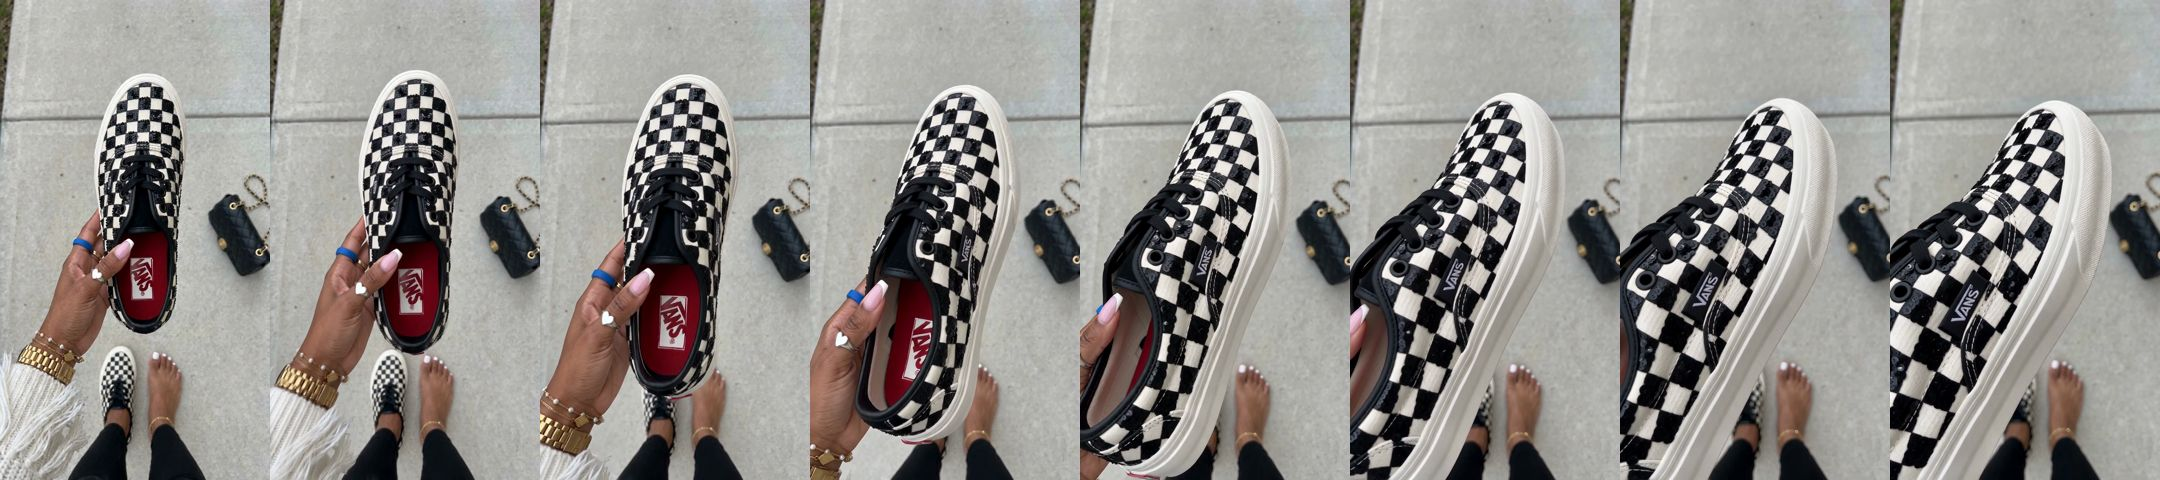
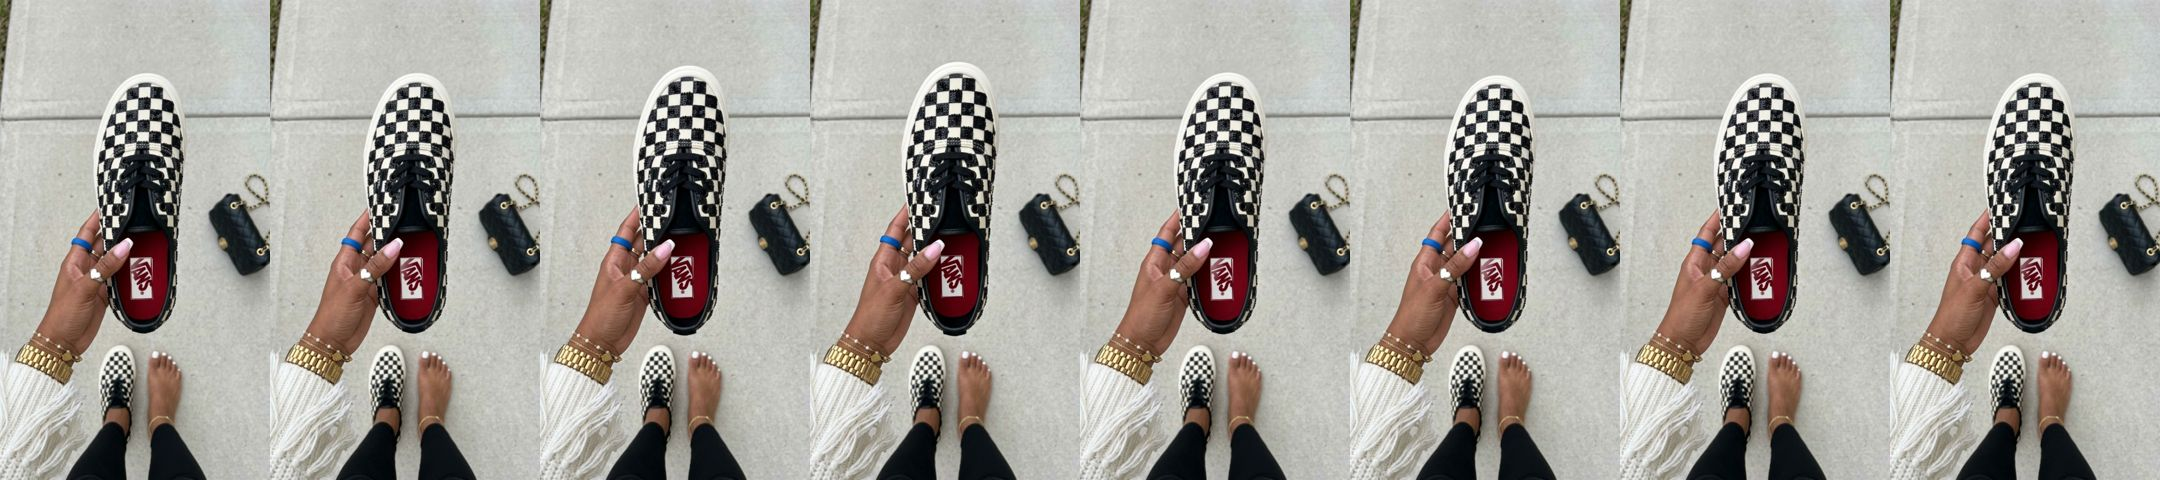
Vans sequin r6: V1S1 via Kling 3.0 on Kie with first=last frame (shoe never turns) + free push-in in cut.py
Claude-Session: https://claude.ai/code/session_01U1tPwSFxNUUFwmLcamztQp

diff --git a/ugc/vans-sequin-authentic/review/index.html b/ugc/vans-sequin-authentic/review/index.html
@@ -40,7 +40,14 @@ td.n{white-space:nowrap}
   </header>
 
   <section class="round">
-    <div><span class="pill">Round 5 · V3, V4, V5, V7 re-cut · waiting on Ralph</span></div>
+    <div><span class="pill">Round 6 · V1 fixed with a new method · waiting on Ralph</span></div>
+    <h2>V1: the shoe no longer turns</h2>
+    <p class="meta">Seedance turned the shoe in every version, even when told to hold still. This shot uses Kling 3.0 with the same still as the first AND last frame, so the clip has to end exactly where it starts and the shoe can't turn or switch sides. Her hand holds still, and a slow push-in keeps it moving like video. Print checked at 2x: insole white box with red VANS, sequins on the black squares only, the dark side tab. The V1 player in Round 4 below now shows this version (8.6 s).</p>
+    <p class="meta">Same method for V3 (and the third shoe removed), V4, V2 and V6: $1.70 on Kie. Kie total so far $12.40.</p>
+  </section>
+
+  <section class="round">
+    <div><span class="pill">Round 5 · V3, V4, V5, V7 re-cut · notes: V1 and V4 still switch sides, V3 has 3 shoes</span></div>
     <h2>Your notes on V4, V5 and V7, plus V3</h2>
     <ul>
       <li><b>V4:</b> the held shoe jumped in a single frame. I redid that clip for $0.205 and cut just before its own pop at 2.9 s: one smooth turn in her hand, then the deck dolly, then the steady tilted hold. Now 8.2 s.</li>
@@ -56,7 +63,7 @@ td.n{white-space:nowrap}
     <h2>The 10 videos, 7 to 14 seconds each</h2>
     <p class="meta">Music-only with a silent track, so Grace adds a trending sound in TikTok. No text. Each video has its own bright grade and the AI finish (grain, sharpness, slightly lower saturation). Every clip in them uses the real VANS tab method. Only the clean part of each clip is used: no grip switch, no extra hands, no product change. Spent on Kie: $11.64 against the $7.73 plan; the $3.91 over is redos.</p>
     <div class="media">
-      <figure><video src="finals/V1.mp4" controls playsinline muted loop preload="metadata"></video><figcaption>V1 · ref A · grey sidewalk · 7.2 s</figcaption></figure>
+      <figure><video src="finals/V1.mp4" controls playsinline muted loop preload="metadata"></video><figcaption>V1 · ref A · grey sidewalk · 8.6 s (r6)</figcaption></figure>
       <figure><video src="finals/V2.mp4" controls playsinline muted loop preload="metadata"></video><figcaption>V2 · ref A · oak bedroom · 7.1 s</figcaption></figure>
       <figure><video src="finals/V3.mp4" controls playsinline muted loop preload="metadata"></video><figcaption>V3 · ref A · marble café · 7.3 s (r5)</figcaption></figure>
       <figure><video src="finals/V4.mp4" controls playsinline muted loop preload="metadata"></video><figcaption>V4 · ref A · sunny deck · 8.2 s (r5)</figcaption></figure>

diff --git a/ugc/vans-sequin-authentic/cut.py b/ugc/vans-sequin-authentic/cut.py
@@ -5,7 +5,7 @@ EDIT: per video, the clips in order with (in, out) seconds; GRADE: a different b
 import subprocess, sys
 from pathlib import Path
 EDIT = {  # clean windows only (QC 2026-10-21: no grip switch, no extra hands, no product change inside a window)
- "V1": [("V1S1", 0, 3.2), ("V1S2", 0, 4.0)],
+ "V1": [("V1S1", 0, 4.6, {"push": 1.08}), ("V1S2", 0, 4.0)],   # r6: V1S1 = Kling 3.0 first=last frame (never turns)
  "V2": [("V2S1", 0, 3.6), ("V2S2", 1.5, 5.0)],
  "V3": [("V3S1", 0, 5.0), ("V3S2", 0, 2.3)],   # r4: cut before the fast flip to the sole
  "V4": [("V4S2", 0, 2.875), ("V4S1", 0, 4.0), ("V4S2", 3.5, 4.8)],   # r4 redo: V4S2 pops at 2.917 s (frame 70), dolly between the two clean holds
@@ -27,11 +27,13 @@ GRADE = {  # all bright and neutral; small differences so no two videos share a 
 
 def cut(v):
     Path("out").mkdir(exist_ok=True); ins, parts = [], []
-    for i, (cid, a, b) in enumerate(EDIT[v]):
+    for i, (cid, a, b, *opt) in enumerate(EDIT[v]):
         ins += ["-ss", str(a), "-t", str(b - a), "-i", f"clips/{cid}.mp4"]
-        parts.append(f"[{i}:v]scale=1080:1920:flags=lanczos,fps=30,setsar=1,{GRADE[v]},setpts=PTS-STARTPTS[v{i}]")
+        push = (opt[0] if opt else {}).get("push")   # free smooth push-in on a near-still real clip (PLAYBOOK FUSOU V3: locked-off clips read as photos)
+        zoom = (f",scale=w='trunc(1080*(1+{push - 1}*t/{b - a})/2)*2':h=-2:eval=frame:flags=lanczos,crop=1080:1920" if push else "")
+        parts.append(f"[{i}:v]scale=1080:1920:flags=lanczos,fps=30,setsar=1{zoom},{GRADE[v]},setpts=PTS-STARTPTS[v{i}]")
     n = len(EDIT[v]); fc = ";".join(parts) + ";" + "".join(f"[v{i}]" for i in range(n)) + f"concat=n={n}:v=1:a=0[v]"
-    dur = sum(b - a for _, a, b in EDIT[v])
+    dur = sum(e[2] - e[1] for e in EDIT[v])
     rev = f"out/{v}_review.mp4"
     subprocess.run(["ffmpeg", "-y", "-v", "error", *ins, "-f", "lavfi", "-t", str(dur), "-i", "anullsrc=r=44100:cl=stereo",
                     "-filter_complex", fc, "-map", "[v]", "-map", f"{n}:a", "-c:v", "libx264", "-preset", "veryfast", "-crf", "18",

diff --git a/ugc/vans-sequin-authentic/run.py b/ugc/vans-sequin-authentic/run.py
@@ -77,3 +77,18 @@ def edit(sid):
 if __name__ == "__main__" and sys.argv[1] == "edit":
     with ThreadPoolExecutor(4) as ex:
         list(ex.map(edit, sys.argv[2:]))
+
+
+def kling_clip(sid, prompt):
+    """Kling 3.0 Omni on Kie ($0.07/s) with the clean still as BOTH first and last frame (LGXNDS kie2.py last_frame_same):
+    the clip must end where it starts, so a held shoe cannot flip or switch sides (Vans 2026-10-21, Seedance kept turning it)."""
+    s = S[sid]
+    first = Path(f"stills/{sid}_clean.png"); first = first if first.exists() else Path(f"stills/{sid}.png")
+    u = kie.upload(str(first))
+    body = {"model": "kling-3.0-omni/image-to-video", "input": {"prompt": prompt, "image_urls": [u, u], "duration": s["dur"],
+            "resolution": "720p", "aspect_ratio": "auto", "audio": False}}
+    url = kie.run_task(body)
+    if url:
+        out = Path(f"clips/{sid}.mp4")
+        if out.exists(): out.rename(f"clips/{sid}_r{len(list(Path('clips').glob(sid + '_r*.mp4')))}.mp4")
+        kie.fetch(url, str(out)); print("kling clip", sid, "ok", flush=True)
